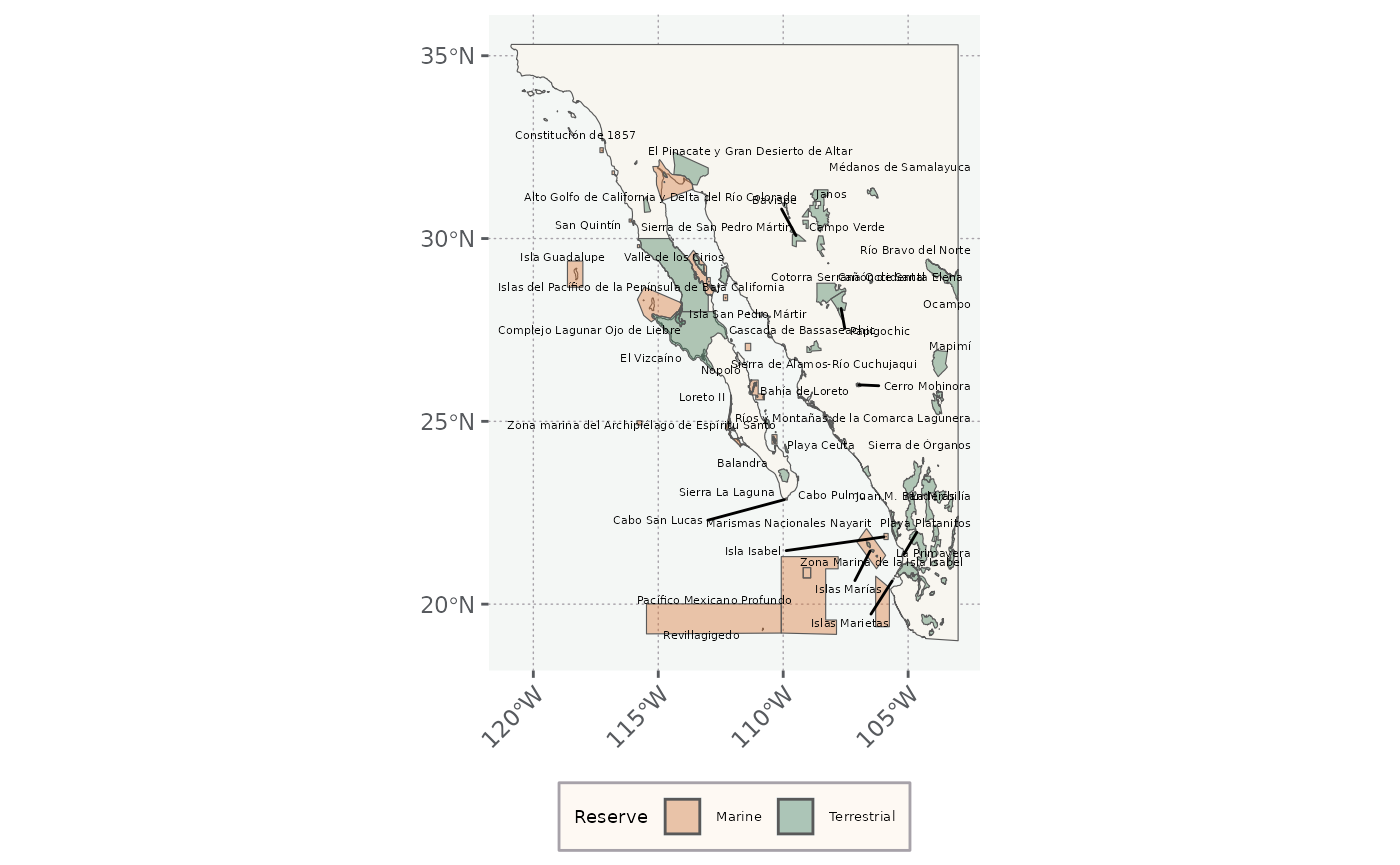
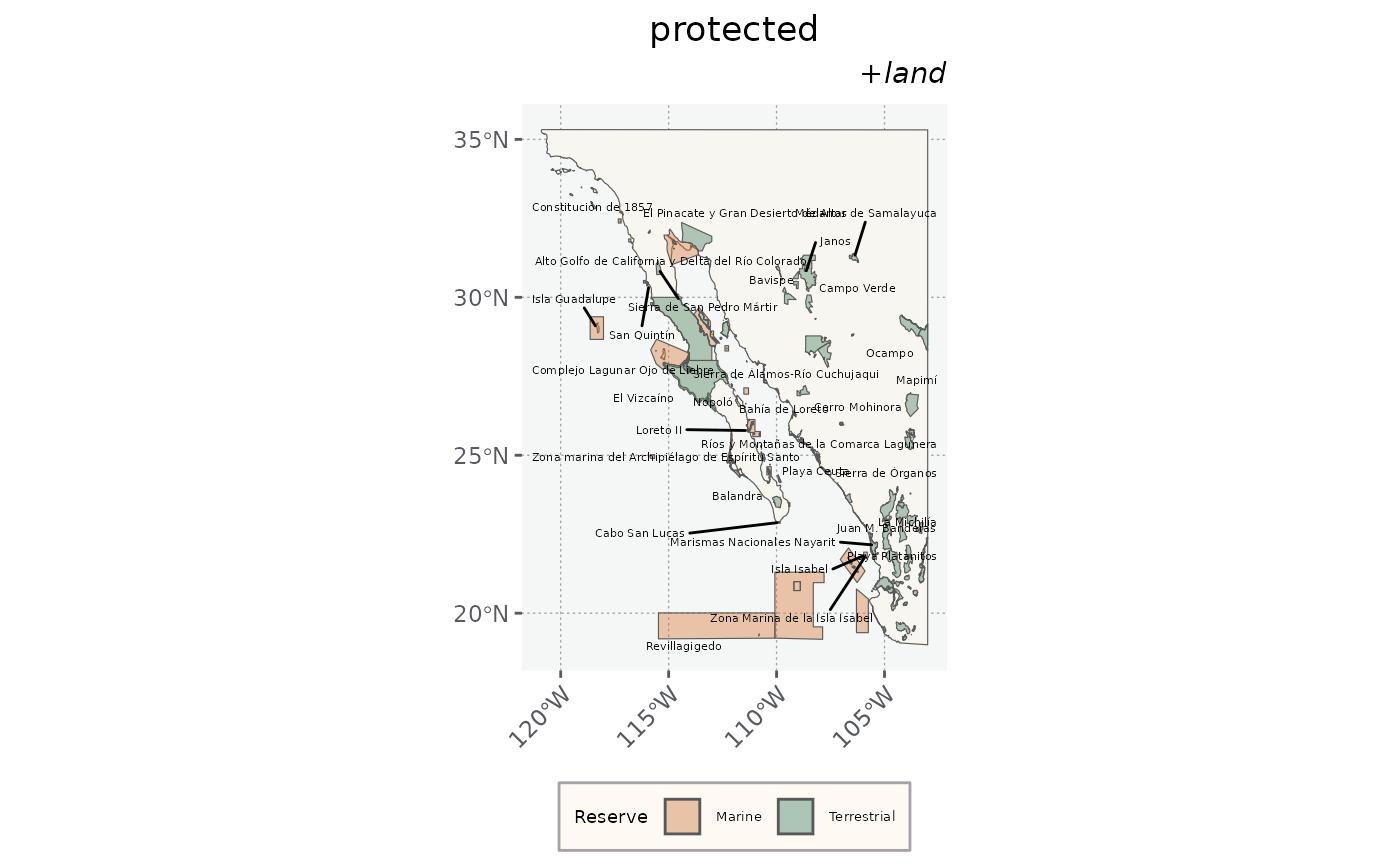
Deploying to gh-pages from @ sagesteppe/flyer@7600d4138e0899a7cc695ade06cad643c150e8e4 🚀

diff --git a/articles/ExploreDataSets.html b/articles/ExploreDataSets.html
@@ -189,7 +189,7 @@ Open Sci page for more info</a>.</p>
 <span><span class="fu"><a href="https://ggplot2.tidyverse.org/reference/ggplot.html" class="external-link">ggplot</a></span><span class="op">(</span><span class="op">)</span> <span class="op">+</span> </span>
 <span>  <span class="fu"><a href="https://ggplot2.tidyverse.org/reference/ggsf.html" class="external-link">geom_sf</a></span><span class="op">(</span>data <span class="op">=</span> <span class="va">land</span>, fill <span class="op">=</span> <span class="st">'#F8F6F0'</span><span class="op">)</span> <span class="op">+</span> </span>
 <span>  <span class="fu">theme_nautical</span><span class="op">(</span><span class="op">)</span> <span class="op">+</span></span>
-<span>  <span class="fu"><a href="https://ggplot2.tidyverse.org/reference/labs.html" class="external-link">labs</a></span><span class="op">(</span>title <span class="op">=</span> <span class="st">'`land` dataset'</span><span class="op">)</span></span></code></pre></div>
+<span>  <span class="fu"><a href="https://ggplot2.tidyverse.org/reference/labs.html" class="external-link">labs</a></span><span class="op">(</span>title <span class="op">=</span> <span class="st">'land'</span><span class="op">)</span></span></code></pre></div>
 <p><img src="ExploreDataSets_files/figure-html/add%20land-1.png" width="700"></p>
 <p>For playing around with the data today, I don’t want the different
 countries to be drawn separately so we can union them.</p>
@@ -199,7 +199,7 @@ countries to be drawn separately so we can union them.</p>
 <span><span class="va">m</span> <span class="op">&lt;-</span> <span class="fu"><a href="https://ggplot2.tidyverse.org/reference/ggplot.html" class="external-link">ggplot</a></span><span class="op">(</span><span class="op">)</span> <span class="op">+</span> </span>
 <span>  <span class="fu"><a href="https://ggplot2.tidyverse.org/reference/ggsf.html" class="external-link">geom_sf</a></span><span class="op">(</span>data <span class="op">=</span> <span class="va">land</span>, fill <span class="op">=</span> <span class="st">'#F8F6F0'</span><span class="op">)</span> <span class="op">+</span> </span>
 <span>  <span class="fu">theme_nautical</span><span class="op">(</span><span class="op">)</span> <span class="op">+</span> </span>
-<span>  <span class="fu"><a href="https://ggplot2.tidyverse.org/reference/labs.html" class="external-link">labs</a></span><span class="op">(</span>title <span class="op">=</span> <span class="st">'st_union(land) dataset'</span><span class="op">)</span></span>
+<span>  <span class="fu"><a href="https://ggplot2.tidyverse.org/reference/labs.html" class="external-link">labs</a></span><span class="op">(</span>title <span class="op">=</span> <span class="st">'st_union(land)'</span><span class="op">)</span></span>
 <span></span>
 <span><span class="va">m</span></span></code></pre></div>
 <p><img src="ExploreDataSets_files/figure-html/union%20land-1.png" width="700"></p>
@@ -232,7 +232,7 @@ countries to be drawn separately so we can union them.</p>
 <span></span>
 <span><span class="va">m</span> <span class="op">&lt;-</span> <span class="va">m</span> <span class="op">+</span> </span>
 <span>  <span class="fu"><a href="https://ggplot2.tidyverse.org/reference/ggsf.html" class="external-link">geom_sf</a></span><span class="op">(</span>data <span class="op">=</span> <span class="va">places</span><span class="op">)</span>  <span class="op">+</span></span>
-<span>  <span class="fu"><a href="https://ggplot2.tidyverse.org/reference/labs.html" class="external-link">labs</a></span><span class="op">(</span>title <span class="op">=</span> <span class="st">'places'</span>, subtitle <span class="op">=</span> <span class="st">'land + places'</span><span class="op">)</span></span>
+<span>  <span class="fu"><a href="https://ggplot2.tidyverse.org/reference/labs.html" class="external-link">labs</a></span><span class="op">(</span>title <span class="op">=</span> <span class="st">'places'</span>, subtitle <span class="op">=</span> <span class="st">'+ land'</span><span class="op">)</span></span>
 <span><span class="va">m</span></span></code></pre></div>
 <p><img src="ExploreDataSets_files/figure-html/plot%20the%20places-1.png" width="700"></p>
 <p>The places seem like they will be better treated as text labels - we
@@ -255,7 +255,7 @@ move them to avoid conflicts with other plot elements.</p>
 <span>  <span class="fu"><a href="https://ggplot2.tidyverse.org/reference/labs.html" class="external-link">labs</a></span><span class="op">(</span></span>
 <span>    x <span class="op">=</span> <span class="cn">NULL</span>, y <span class="op">=</span> <span class="cn">NULL</span>,</span>
 <span>    title <span class="op">=</span> <span class="st">'geom_text_repel(places)'</span>, </span>
-<span>    subtitle <span class="op">=</span> <span class="st">'land + places'</span><span class="op">)</span></span>
+<span>    subtitle <span class="op">=</span> <span class="st">'+ land + places'</span><span class="op">)</span></span>
 <span></span>
 <span><span class="va">m</span></span></code></pre></div>
 <p><img src="ExploreDataSets_files/figure-html/plot%20places%20as%20text-1.png" width="700"></p>
@@ -440,7 +440,8 @@ mapping these classes.</p>
 <code class="sourceCode R"><span><span class="fu"><a href="https://ggplot2.tidyverse.org/reference/ggplot.html" class="external-link">ggplot</a></span><span class="op">(</span><span class="op">)</span> <span class="op">+</span> </span>
 <span>  <span class="fu"><a href="https://ggplot2.tidyverse.org/reference/ggsf.html" class="external-link">geom_sf</a></span><span class="op">(</span>data <span class="op">=</span> <span class="va">landcover</span>, <span class="fu"><a href="https://ggplot2.tidyverse.org/reference/aes.html" class="external-link">aes</a></span><span class="op">(</span>fill <span class="op">=</span> <span class="va">class</span><span class="op">)</span>, color <span class="op">=</span> <span class="cn">NA</span><span class="op">)</span> <span class="op">+</span> </span>
 <span>  <span class="fu"><a href="https://ggplot2.tidyverse.org/reference/scale_manual.html" class="external-link">scale_fill_manual</a></span><span class="op">(</span><span class="st">'Class'</span>, values <span class="op">=</span> <span class="va">lc_pal</span><span class="op">)</span> <span class="op">+</span> </span>
-<span>  <span class="fu">theme_nautical</span><span class="op">(</span><span class="op">)</span></span></code></pre></div>
+<span>  <span class="fu">theme_nautical</span><span class="op">(</span><span class="op">)</span> <span class="op">+</span> </span>
+<span>  <span class="fu"><a href="https://ggplot2.tidyverse.org/reference/labs.html" class="external-link">labs</a></span><span class="op">(</span>title <span class="op">=</span> <span class="st">'landcover'</span>, subtitle <span class="op">=</span> <span class="st">'+ lc_pal'</span><span class="op">)</span></span></code></pre></div>
 <p><img src="ExploreDataSets_files/figure-html/unnamed-chunk-3-1.png" width="700"></p>
 <p>Additionally, information on protected areas of Mexico are also
 included.</p>
@@ -458,7 +459,7 @@ included.</p>
 <span>    stat <span class="op">=</span> <span class="st">"sf_coordinates"</span>,</span>
 <span>    size <span class="op">=</span> <span class="fl">1.5</span></span>
 <span>    <span class="op">)</span> <span class="op">+</span> </span>
-<span>  <span class="fu"><a href="https://ggplot2.tidyverse.org/reference/labs.html" class="external-link">labs</a></span><span class="op">(</span>x <span class="op">=</span> <span class="cn">NULL</span>, y <span class="op">=</span> <span class="cn">NULL</span><span class="op">)</span> <span class="op">+</span> </span>
+<span>  <span class="fu"><a href="https://ggplot2.tidyverse.org/reference/labs.html" class="external-link">labs</a></span><span class="op">(</span>x <span class="op">=</span> <span class="cn">NULL</span>, y <span class="op">=</span> <span class="cn">NULL</span>, title <span class="op">=</span> <span class="st">'protected'</span>, subtitle <span class="op">=</span> <span class="st">'+land'</span><span class="op">)</span> <span class="op">+</span> </span>
 <span></span>
 <span>  <span class="fu">theme_nautical</span><span class="op">(</span><span class="op">)</span></span></code></pre></div>
 <p><img src="ExploreDataSets_files/figure-html/Protected%20areas-1.png" width="700"></p>

diff --git a/reference/places.html b/reference/places.html
@@ -76,7 +76,8 @@ Note that several of the book place names seem somewhat peculiar, but the locali
 <span class="r-in"><span></span></span>
 <span class="r-in"><span><span class="kw"><a href="https://rdrr.io/r/base/library.html" class="external-link">library</a></span><span class="op">(</span><span class="va"><a href="https://ggplot2.tidyverse.org" class="external-link">ggplot2</a></span><span class="op">)</span></span></span>
 <span class="r-in"><span><span class="fu"><a href="https://ggplot2.tidyverse.org/reference/ggplot.html" class="external-link">ggplot</a></span><span class="op">(</span><span class="op">)</span> <span class="op">+</span></span></span>
-<span class="r-in"><span> <span class="fu"><a href="https://ggplot2.tidyverse.org/reference/ggsf.html" class="external-link">geom_sf</a></span><span class="op">(</span>data <span class="op">=</span> <span class="va">places</span>, <span class="fu"><a href="https://ggplot2.tidyverse.org/reference/aes.html" class="external-link">aes</a></span><span class="op">(</span>color <span class="op">=</span> <span class="va">date_arrive</span><span class="op">)</span><span class="op">)</span></span></span>
+<span class="r-in"><span> <span class="fu"><a href="https://ggplot2.tidyverse.org/reference/ggsf.html" class="external-link">geom_sf</a></span><span class="op">(</span>data <span class="op">=</span> <span class="va">places</span>, <span class="fu"><a href="https://ggplot2.tidyverse.org/reference/aes.html" class="external-link">aes</a></span><span class="op">(</span>color <span class="op">=</span> <span class="va">date_arrive</span><span class="op">)</span><span class="op">)</span> <span class="op">+</span></span></span>
+<span class="r-in"><span> <span class="fu"><a href="https://ggplot2.tidyverse.org/reference/ggtheme.html" class="external-link">theme_minimal</a></span><span class="op">(</span><span class="op">)</span></span></span>
 <span class="r-plt img"><img src="places-1.png" alt="" width="700" height="433"></span>
 <span class="r-in"><span></span></span>
 </code></pre></div>

diff --git a/reference/route.html b/reference/route.html
@@ -72,7 +72,8 @@ Note that the route is fictionalized from the book, and modified to be aesthetic
 <span class="r-in"><span></span></span>
 <span class="r-in"><span><span class="kw"><a href="https://rdrr.io/r/base/library.html" class="external-link">library</a></span><span class="op">(</span><span class="va"><a href="https://ggplot2.tidyverse.org" class="external-link">ggplot2</a></span><span class="op">)</span></span></span>
 <span class="r-in"><span><span class="fu"><a href="https://ggplot2.tidyverse.org/reference/ggplot.html" class="external-link">ggplot</a></span><span class="op">(</span><span class="op">)</span> <span class="op">+</span></span></span>
-<span class="r-in"><span> <span class="fu"><a href="https://ggplot2.tidyverse.org/reference/ggsf.html" class="external-link">geom_sf</a></span><span class="op">(</span>data <span class="op">=</span> <span class="va">route</span>, <span class="fu"><a href="https://ggplot2.tidyverse.org/reference/aes.html" class="external-link">aes</a></span><span class="op">(</span>color <span class="op">=</span> <span class="va">date_arrive</span><span class="op">)</span><span class="op">)</span></span></span>
+<span class="r-in"><span> <span class="fu"><a href="https://ggplot2.tidyverse.org/reference/ggsf.html" class="external-link">geom_sf</a></span><span class="op">(</span>data <span class="op">=</span> <span class="va">route</span>, <span class="fu"><a href="https://ggplot2.tidyverse.org/reference/aes.html" class="external-link">aes</a></span><span class="op">(</span>color <span class="op">=</span> <span class="va">date_arrive</span><span class="op">)</span><span class="op">)</span> <span class="op">+</span></span></span>
+<span class="r-in"><span> <span class="fu"><a href="https://ggplot2.tidyverse.org/reference/ggtheme.html" class="external-link">theme_minimal</a></span><span class="op">(</span><span class="op">)</span></span></span>
 <span class="r-plt img"><img src="route-1.png" alt="" width="700" height="433"></span>
 <span class="r-in"><span></span></span>
 </code></pre></div>

diff --git a/reference/protected.html b/reference/protected.html
@@ -70,7 +70,8 @@ From CONABIO CONANP, (09/2024). 'Federal Protected Natural Areas of Mexico, Sept
 <span class="r-in"><span></span></span>
 <span class="r-in"><span><span class="kw"><a href="https://rdrr.io/r/base/library.html" class="external-link">library</a></span><span class="op">(</span><span class="va"><a href="https://ggplot2.tidyverse.org" class="external-link">ggplot2</a></span><span class="op">)</span></span></span>
 <span class="r-in"><span><span class="fu"><a href="https://ggplot2.tidyverse.org/reference/ggplot.html" class="external-link">ggplot</a></span><span class="op">(</span><span class="op">)</span> <span class="op">+</span></span></span>
-<span class="r-in"><span> <span class="fu"><a href="https://ggplot2.tidyverse.org/reference/ggsf.html" class="external-link">geom_sf</a></span><span class="op">(</span>data <span class="op">=</span> <span class="va">protected</span>, <span class="fu"><a href="https://ggplot2.tidyverse.org/reference/aes.html" class="external-link">aes</a></span><span class="op">(</span>fill <span class="op">=</span> <span class="va">reserve_type</span><span class="op">)</span><span class="op">)</span></span></span>
+<span class="r-in"><span> <span class="fu"><a href="https://ggplot2.tidyverse.org/reference/ggsf.html" class="external-link">geom_sf</a></span><span class="op">(</span>data <span class="op">=</span> <span class="va">protected</span>, <span class="fu"><a href="https://ggplot2.tidyverse.org/reference/aes.html" class="external-link">aes</a></span><span class="op">(</span>fill <span class="op">=</span> <span class="va">reserve_type</span><span class="op">)</span><span class="op">)</span> <span class="op">+</span></span></span>
+<span class="r-in"><span> <span class="fu"><a href="https://ggplot2.tidyverse.org/reference/ggtheme.html" class="external-link">theme_minimal</a></span><span class="op">(</span><span class="op">)</span></span></span>
 <span class="r-plt img"><img src="protected-1.png" alt="" width="700" height="433"></span>
 </code></pre></div>
     </div>

diff --git a/reference/bathymetry.html b/reference/bathymetry.html
@@ -67,7 +67,8 @@ The contours were generated from GEBCO Compilation Group (2024) GEBCO 2024 Grid 
 <span class="r-in"><span></span></span>
 <span class="r-in"><span><span class="kw"><a href="https://rdrr.io/r/base/library.html" class="external-link">library</a></span><span class="op">(</span><span class="va"><a href="https://ggplot2.tidyverse.org" class="external-link">ggplot2</a></span><span class="op">)</span></span></span>
 <span class="r-in"><span><span class="fu"><a href="https://ggplot2.tidyverse.org/reference/ggplot.html" class="external-link">ggplot</a></span><span class="op">(</span><span class="op">)</span> <span class="op">+</span></span></span>
-<span class="r-in"><span> <span class="fu"><a href="https://ggplot2.tidyverse.org/reference/ggsf.html" class="external-link">geom_sf</a></span><span class="op">(</span>data <span class="op">=</span> <span class="va">bathymetry</span>, <span class="fu"><a href="https://ggplot2.tidyverse.org/reference/aes.html" class="external-link">aes</a></span><span class="op">(</span>color <span class="op">=</span> <span class="va">elevation</span><span class="op">)</span><span class="op">)</span></span></span>
+<span class="r-in"><span> <span class="fu"><a href="https://ggplot2.tidyverse.org/reference/ggsf.html" class="external-link">geom_sf</a></span><span class="op">(</span>data <span class="op">=</span> <span class="va">bathymetry</span>, <span class="fu"><a href="https://ggplot2.tidyverse.org/reference/aes.html" class="external-link">aes</a></span><span class="op">(</span>color <span class="op">=</span> <span class="va">elevation</span><span class="op">)</span><span class="op">)</span> <span class="op">+</span></span></span>
+<span class="r-in"><span> <span class="fu"><a href="https://ggplot2.tidyverse.org/reference/ggtheme.html" class="external-link">theme_minimal</a></span><span class="op">(</span><span class="op">)</span></span></span>
 <span class="r-plt img"><img src="bathymetry-1.png" alt="" width="700" height="433"></span>
 </code></pre></div>
     </div>

diff --git a/reference/topography.html b/reference/topography.html
@@ -67,7 +67,8 @@ The contours were generated from Robinson, N., Regetz, J., and Guralnick, R. P. 
 <span class="r-in"><span></span></span>
 <span class="r-in"><span><span class="kw"><a href="https://rdrr.io/r/base/library.html" class="external-link">library</a></span><span class="op">(</span><span class="va"><a href="https://ggplot2.tidyverse.org" class="external-link">ggplot2</a></span><span class="op">)</span></span></span>
 <span class="r-in"><span><span class="fu"><a href="https://ggplot2.tidyverse.org/reference/ggplot.html" class="external-link">ggplot</a></span><span class="op">(</span><span class="op">)</span> <span class="op">+</span></span></span>
-<span class="r-in"><span> <span class="fu"><a href="https://ggplot2.tidyverse.org/reference/ggsf.html" class="external-link">geom_sf</a></span><span class="op">(</span>data <span class="op">=</span> <span class="va">topography</span>, <span class="fu"><a href="https://ggplot2.tidyverse.org/reference/aes.html" class="external-link">aes</a></span><span class="op">(</span>color <span class="op">=</span> <span class="va">elevation</span><span class="op">)</span><span class="op">)</span></span></span>
+<span class="r-in"><span> <span class="fu"><a href="https://ggplot2.tidyverse.org/reference/ggsf.html" class="external-link">geom_sf</a></span><span class="op">(</span>data <span class="op">=</span> <span class="va">topography</span>, <span class="fu"><a href="https://ggplot2.tidyverse.org/reference/aes.html" class="external-link">aes</a></span><span class="op">(</span>color <span class="op">=</span> <span class="va">elevation</span><span class="op">)</span><span class="op">)</span> <span class="op">+</span></span></span>
+<span class="r-in"><span> <span class="fu"><a href="https://ggplot2.tidyverse.org/reference/ggtheme.html" class="external-link">theme_minimal</a></span><span class="op">(</span><span class="op">)</span></span></span>
 <span class="r-plt img"><img src="topography-1.png" alt="" width="700" height="433"></span>
 </code></pre></div>
     </div>

diff --git a/reference/landcover.html b/reference/landcover.html
@@ -64,7 +64,8 @@ Tuanmu, M.-N. and W. Jetz. 2014. A global 1-km consensus land-cover product for 
 <span class="r-in"><span></span></span>
 <span class="r-in"><span><span class="kw"><a href="https://rdrr.io/r/base/library.html" class="external-link">library</a></span><span class="op">(</span><span class="va"><a href="https://ggplot2.tidyverse.org" class="external-link">ggplot2</a></span><span class="op">)</span></span></span>
 <span class="r-in"><span><span class="fu"><a href="https://ggplot2.tidyverse.org/reference/ggplot.html" class="external-link">ggplot</a></span><span class="op">(</span><span class="op">)</span> <span class="op">+</span></span></span>
-<span class="r-in"><span> <span class="fu"><a href="https://ggplot2.tidyverse.org/reference/ggsf.html" class="external-link">geom_sf</a></span><span class="op">(</span>data <span class="op">=</span> <span class="va">landcover</span>, <span class="fu"><a href="https://ggplot2.tidyverse.org/reference/aes.html" class="external-link">aes</a></span><span class="op">(</span>fill <span class="op">=</span> <span class="va">class</span><span class="op">)</span><span class="op">)</span></span></span>
+<span class="r-in"><span> <span class="fu"><a href="https://ggplot2.tidyverse.org/reference/ggsf.html" class="external-link">geom_sf</a></span><span class="op">(</span>data <span class="op">=</span> <span class="va">landcover</span>, <span class="fu"><a href="https://ggplot2.tidyverse.org/reference/aes.html" class="external-link">aes</a></span><span class="op">(</span>fill <span class="op">=</span> <span class="va">class</span><span class="op">)</span><span class="op">)</span> <span class="op">+</span></span></span>
+<span class="r-in"><span> <span class="fu"><a href="https://ggplot2.tidyverse.org/reference/ggtheme.html" class="external-link">theme_minimal</a></span><span class="op">(</span><span class="op">)</span></span></span>
 <span class="r-plt img"><img src="landcover-1.png" alt="" width="700" height="433"></span>
 </code></pre></div>
     </div>

diff --git a/reference/land.html b/reference/land.html
@@ -73,7 +73,8 @@ Based on visual inspection the match is good; any mismatch is not my intention -
 <span class="r-in"><span></span></span>
 <span class="r-in"><span><span class="kw"><a href="https://rdrr.io/r/base/library.html" class="external-link">library</a></span><span class="op">(</span><span class="va"><a href="https://ggplot2.tidyverse.org" class="external-link">ggplot2</a></span><span class="op">)</span></span></span>
 <span class="r-in"><span><span class="fu"><a href="https://ggplot2.tidyverse.org/reference/ggplot.html" class="external-link">ggplot</a></span><span class="op">(</span><span class="op">)</span> <span class="op">+</span></span></span>
-<span class="r-in"><span> <span class="fu"><a href="https://ggplot2.tidyverse.org/reference/ggsf.html" class="external-link">geom_sf</a></span><span class="op">(</span>data <span class="op">=</span> <span class="va">land</span>, <span class="fu"><a href="https://ggplot2.tidyverse.org/reference/aes.html" class="external-link">aes</a></span><span class="op">(</span>fill <span class="op">=</span> <span class="va">name</span><span class="op">)</span><span class="op">)</span></span></span>
+<span class="r-in"><span> <span class="fu"><a href="https://ggplot2.tidyverse.org/reference/ggsf.html" class="external-link">geom_sf</a></span><span class="op">(</span>data <span class="op">=</span> <span class="va">land</span>, <span class="fu"><a href="https://ggplot2.tidyverse.org/reference/aes.html" class="external-link">aes</a></span><span class="op">(</span>fill <span class="op">=</span> <span class="va">name</span><span class="op">)</span><span class="op">)</span> <span class="op">+</span></span></span>
+<span class="r-in"><span> <span class="fu"><a href="https://ggplot2.tidyverse.org/reference/ggtheme.html" class="external-link">theme_minimal</a></span><span class="op">(</span><span class="op">)</span></span></span>
 <span class="r-plt img"><img src="land-1.png" alt="" width="700" height="433"></span>
 </code></pre></div>
     </div>

diff --git a/reference/lc_pal.html b/reference/lc_pal.html
@@ -52,6 +52,7 @@
     <div class="section level2">
     <h2 id="ref-examples">Examples<a class="anchor" aria-label="anchor" href="#ref-examples"></a></h2>
     <div class="sourceCode"><pre class="sourceCode r"><code><span class="r-in"><span><span class="fu"><a href="https://rdrr.io/r/utils/data.html" class="external-link">data</a></span><span class="op">(</span><span class="va">lc_pal</span><span class="op">)</span></span></span>
+<span class="r-in"><span><span class="fu"><a href="https://rdrr.io/r/utils/data.html" class="external-link">data</a></span><span class="op">(</span><span class="va">landcover</span><span class="op">)</span></span></span>
 <span class="r-in"><span></span></span>
 <span class="r-in"><span><span class="kw"><a href="https://rdrr.io/r/base/library.html" class="external-link">library</a></span><span class="op">(</span><span class="va"><a href="https://ggplot2.tidyverse.org" class="external-link">ggplot2</a></span><span class="op">)</span></span></span>
 <span class="r-in"><span><span class="fu"><a href="https://ggplot2.tidyverse.org/reference/ggplot.html" class="external-link">ggplot</a></span><span class="op">(</span><span class="op">)</span> <span class="op">+</span></span></span>
